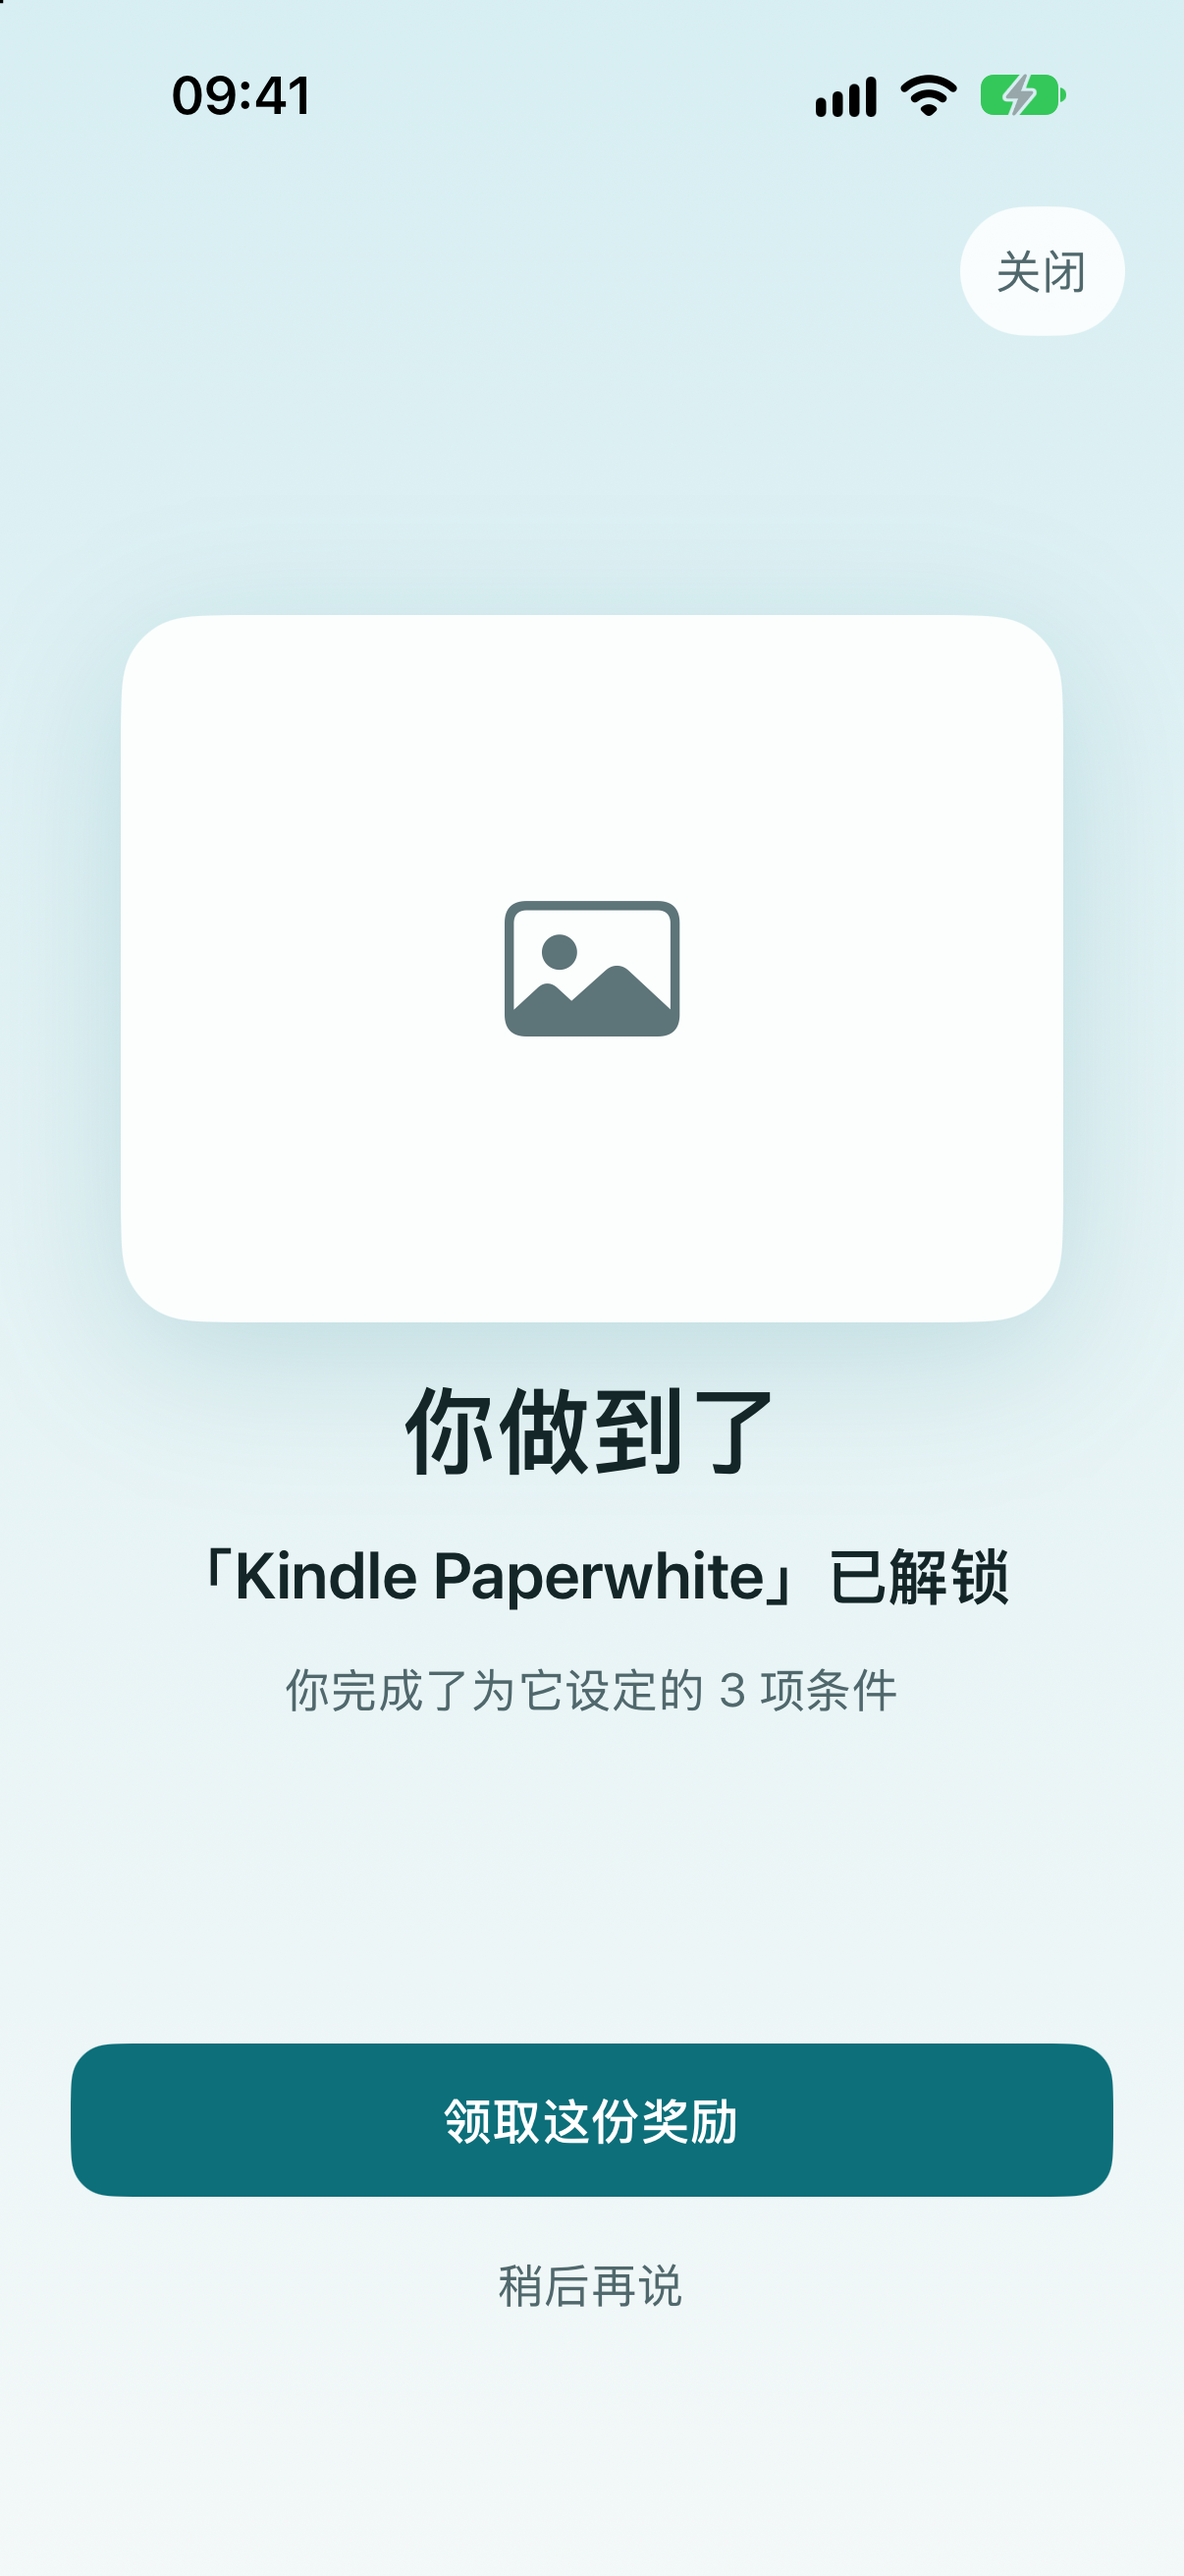
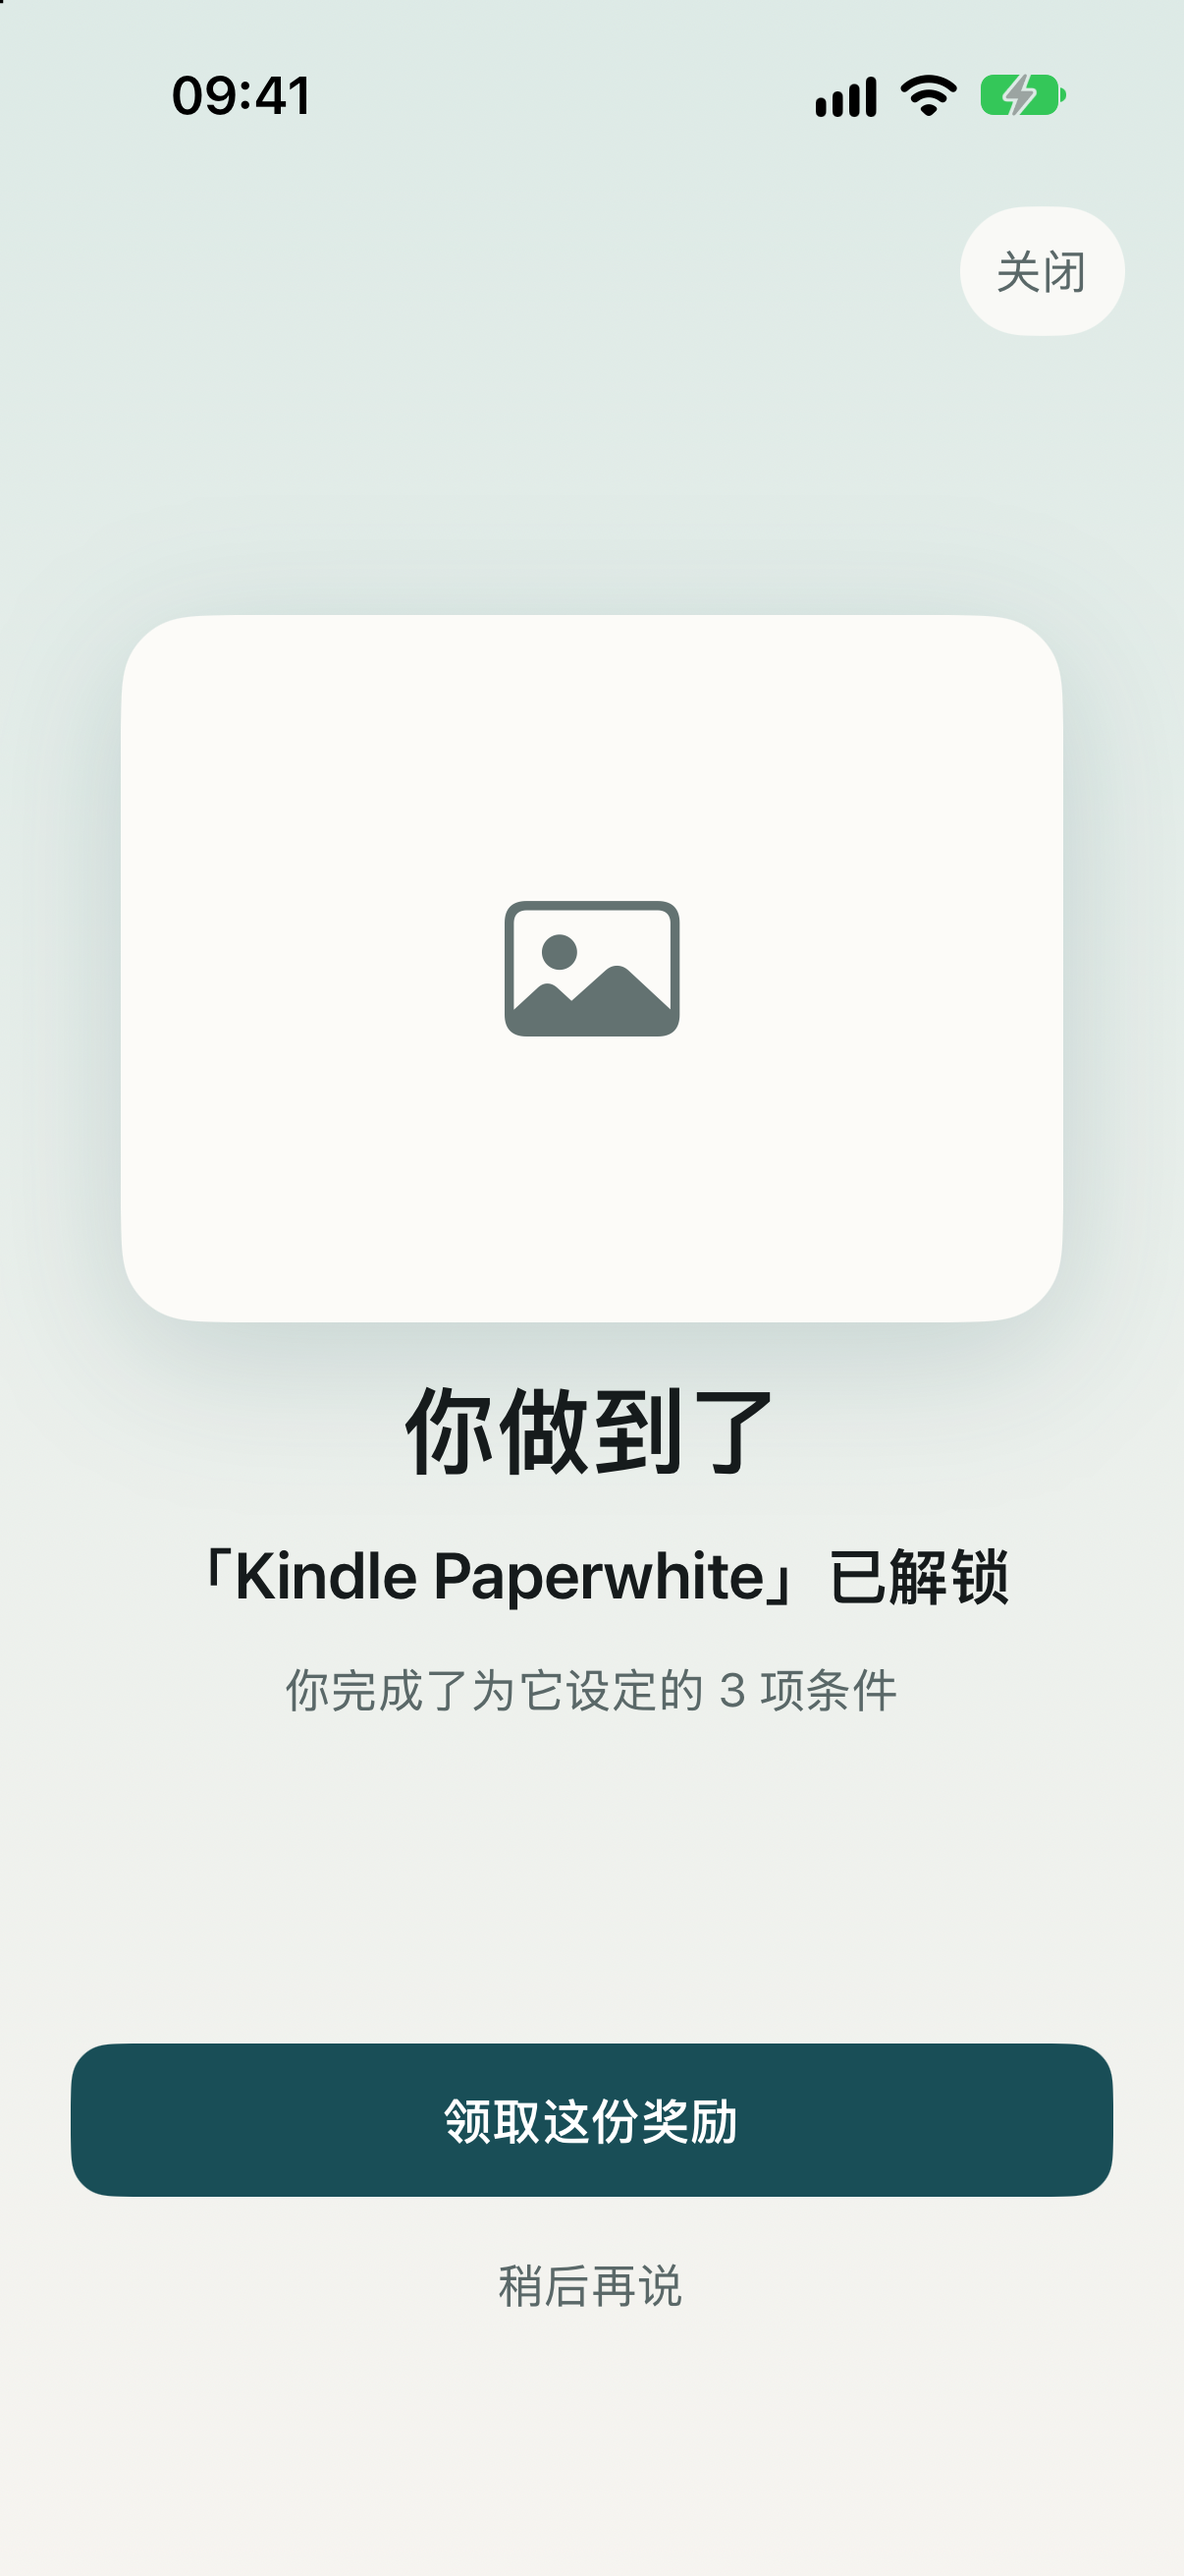
feat(ui): match petrol teal and eucalyptus palette
- move to a warm ivory canvas with deep petrol-teal action color and eucalyptus surfaces
- align the app icon and design docs with the same palette family
- refresh light/dark palette screenshots

Changed region(s): [[0.0614, 0.7723, 0.9511, 0.865]]

diff --git a/WishEarn/Presentation/Components/DesignSystem/AppTheme.swift b/WishEarn/Presentation/Components/DesignSystem/AppTheme.swift
@@ -4,33 +4,33 @@ import UIKit
 enum AppColors {
     // MARK: Canvas and surfaces
 
-    static let canvas = Color.dynamic(light: 0xF3F8F8, dark: 0x0C1517)
-    static let surface = Color.dynamic(light: 0xFCFEFE, dark: 0x152225)
-    static let surfaceSecondary = Color.dynamic(light: 0xE3EFF1, dark: 0x1F3237)
+    static let canvas = Color.dynamic(light: 0xF6F4F0, dark: 0x0D1516)
+    static let surface = Color.dynamic(light: 0xFCFBF8, dark: 0x172021)
+    static let surfaceSecondary = Color.dynamic(light: 0xE4ECE7, dark: 0x223031)
 
     // MARK: Text
 
-    static let textPrimary = Color.dynamic(light: 0x142628, dark: 0xEDF6F8)
+    static let textPrimary = Color.dynamic(light: 0x161B1C, dark: 0xF1F5F3)
     // Light values are tuned so normal-size supporting text still meets
     // 4.5:1 contrast on canvas and surface.
-    static let textSecondary = Color.dynamic(light: 0x50686C, dark: 0xB4C8CD)
-    static let textTertiary = Color.dynamic(light: 0x5D7478, dark: 0x8BA2A8)
+    static let textSecondary = Color.dynamic(light: 0x5A6868, dark: 0xB7C5C3)
+    static let textTertiary = Color.dynamic(light: 0x637271, dark: 0x8FA19F)
 
     // MARK: Action and state
 
-    // Deep lagoon teal in light mode, bright aqua in dark mode. The light
+    // Deep petrol teal in light mode, eucalyptus mint in dark mode. The light
     // accent is dark enough for text; the dark accent takes dark labels.
-    static let accent = Color.dynamic(light: 0x0C6F7A, dark: 0x6FD3D8)
-    static let accentSoft = Color.dynamic(light: 0xD7EEF2, dark: 0x13383F)
-    static let onAccent = Color.dynamic(light: 0xFFFFFF, dark: 0x0C1517)
-    static let success = Color.dynamic(light: 0x2E7D4F, dark: 0x72C995)
-    static let warning = Color.dynamic(light: 0x94601E, dark: 0xDDB26B)
-    static let danger = Color.dynamic(light: 0xB94A45, dark: 0xED8C86)
+    static let accent = Color.dynamic(light: 0x194E57, dark: 0x7ECFC3)
+    static let accentSoft = Color.dynamic(light: 0xDDEAE6, dark: 0x1A3737)
+    static let onAccent = Color.dynamic(light: 0xFFFFFF, dark: 0x0D1516)
+    static let success = Color.dynamic(light: 0x2E7A55, dark: 0x78C69A)
+    static let warning = Color.dynamic(light: 0x8E641F, dark: 0xD8B36B)
+    static let danger = Color.dynamic(light: 0xB14B46, dark: 0xE88B85)
 
     // MARK: Structure
 
-    static let separator = Color.dynamic(light: 0xD8E6E9, dark: 0x293C41)
-    static let progressTrack = Color.dynamic(light: 0xE1EEF1, dark: 0x293C41)
+    static let separator = Color.dynamic(light: 0xE3E5E0, dark: 0x2A3838)
+    static let progressTrack = Color.dynamic(light: 0xE5ECE8, dark: 0x2A3838)
 
     // MARK: Compatibility aliases
     //

diff --git a/docs/design/DESIGN_SYSTEM.md b/docs/design/DESIGN_SYSTEM.md
@@ -12,19 +12,19 @@ Use semantic names. Values below are initial targets; verify contrast in impleme
 
 | Token | Light | Dark | Use |
 |---|---|---|---|
-| canvas | #F3F8F8 | #0C1517 | App background |
-| surface | #FCFEFE | #152225 | Main cards and sheets |
-| surfaceSecondary | #E3EFF1 | #1F3237 | Quiet grouped surfaces |
-| textPrimary | #142628 | #EDF6F8 | Primary text |
-| textSecondary | #50686C | #B4C8CD | Supporting text |
-| textTertiary | #5D7478 | #8BA2A8 | Metadata only |
-| accent | #0C6F7A | #6FD3D8 | Primary action / active progress |
-| accentSoft | #D7EEF2 | #13383F | Accent container |
-| success | #2E7D4F | #72C995 | Completed state |
-| warning | #94601E | #DDB26B | Caution only |
-| danger | #B94A45 | #ED8C86 | Destructive / error |
-| separator | #D8E6E9 | #293C41 | Hairlines |
-| progressTrack | #E1EEF1 | #293C41 | Progress background |
+| canvas | #F6F4F0 | #0D1516 | App background |
+| surface | #FCFBF8 | #172021 | Main cards and sheets |
+| surfaceSecondary | #E4ECE7 | #223031 | Quiet grouped surfaces |
+| textPrimary | #161B1C | #F1F5F3 | Primary text |
+| textSecondary | #5A6868 | #B7C5C3 | Supporting text |
+| textTertiary | #637271 | #8FA19F | Metadata only |
+| accent | #194E57 | #7ECFC3 | Primary action / active progress |
+| accentSoft | #DDEAE6 | #1A3737 | Accent container |
+| success | #2E7A55 | #78C69A | Completed state |
+| warning | #8E641F | #D8B36B | Caution only |
+| danger | #B14B46 | #E88B85 | Destructive / error |
+| separator | #E3E5E0 | #2A3838 | Hairlines |
+| progressTrack | #E5ECE8 | #2A3838 | Progress background |
 
 Rules:
 - Accent is used for one primary action and active progress, not every icon.
@@ -88,7 +88,7 @@ Prefer subtle border separation over drop shadows. If shadow is needed: low opac
 Wish imagery is the strongest visual differentiator.
 - Detail hero: wide crop, 16:10 target, rounded 26 pt corners; preserve subject via center crop and allow user-selected image focal behavior if available.
 - Home card: 104 × 116 pt editorial thumbnail on standard width; do not force 64 pt generic icon tiles.
-- No-image state: cool neutral surface with a restrained line illustration / symbol and a subtle “Add a photo” affordance only in edit context.
+- No-image state: soft eucalyptus-neutral surface with a restrained line illustration / symbol and a subtle “Add a photo” affordance only in edit context.
 - Do not show broken-image glyphs.
 - Respect stored image data and existing image-loading path; do not add remote image dependencies.
 

diff --git a/docs/design/screenshots/palette-refresh/README.md b/docs/design/screenshots/palette-refresh/README.md
@@ -1,11 +1,11 @@
-# Palette Refresh — Lagoon Teal
+# Palette Refresh — Petrol & Eucalyptus
 
-Replaces the previous terracotta/warm-paper palette with a cool-mist canvas and lagoon-teal accent. The editorial serif composition is unchanged.
+Replaces the previous terracotta/warm-paper palette with a soft ivory canvas, deep petrol-teal accent, and eucalyptus-mint containers. The editorial serif composition is unchanged.
 
-- Light: cool mist canvas `#F3F8F8`, near-white surface `#FCFEFE`, deep lagoon accent `#0C6F7A`, soft aqua container `#D7EEF2`.
-- Dark: deep green-black canvas `#0C1517`, dark surface `#152225`, bright aqua accent `#6FD3D8`.
+- Light: soft ivory canvas `#F6F4F0`, warm-white surface `#FCFBF8`, deep petrol accent `#194E57`, eucalyptus container `#DDEAE6`.
+- Dark: deep blue-green canvas `#0D1516`, dark surface `#172021`, eucalyptus-mint accent `#7ECFC3`.
 - Semantic success, warning, and danger remain distinct from the accent and retain 4.5:1 contrast targets.
-- App icon updated to the same teal gradient with the existing white heart + sparkles mark.
+- App icon updated to the same petrol → eucalyptus gradient with the existing white heart + sparkles mark.
 
 Captured on iPhone 18 Pro Simulator (iOS 27.2) with in-memory Debug-only data:
 

diff --git a/PROJECT_STATUS.md b/PROJECT_STATUS.md
@@ -88,13 +88,13 @@
 - 发布材料：`docs/APP_STORE.md`、`docs/RELEASE_CHECKLIST.md`。
 - Release Archive 与 Development IPA 构建成功。
 - Phase 2 设计系统、心愿首页、心愿详情、Today 行动页、Editors、Unlock / Achievements / Settings 改版。
-- 配色刷新：lagoon teal 冷色体系与同色系 App Icon。
+- 配色刷新：petrol teal + eucalyptus 冷色体系与同色系 App Icon。
 - 测试体系：272 项，业务层主要文件覆盖率 88%–100%。
 
 ## Last Verification
 
 - Build: PASS — Debug / Release
-- Unit Tests: PASS — 272 项，iPhone 18 Pro / iOS 27.2，2026-11-09 23:58
+- Unit Tests: PASS — 272 项，iPhone 18 Pro / iOS 27.2，2026-11-10 00:13
 - Palette refresh: PASS — Light / Dark / Detail / Today / Achievements / Settings / Unlock / Editor 截图
 - Integration Tests: PASS
 - Archive: PASS — `build/WishEarn.xcarchive`（0.15.0 / 1）

diff --git a/docs/design/UI_UX_DIRECTION.md b/docs/design/UI_UX_DIRECTION.md
@@ -91,7 +91,7 @@ Avoid:
 - Cartoon mascots, XP, coins, rankings, or punishment language.
 - Making a missing wish image look like a broken image placeholder.
 
-Use a restrained cool-mist palette with a single lagoon-teal accent. The editorial composition stays; the palette should feel fresh and optimistic rather than warm/terracotta. Color must communicate role, not decorate every element.
+Use a soft ivory canvas with a single deep petrol-teal accent and eucalyptus-mint containers. The editorial composition stays; the palette should feel fresh and optimistic rather than warm/terracotta. Color must communicate role, not decorate every element.
 
 ## 6. Content and microcopy
 

diff --git a/CHANGELOG.md b/CHANGELOG.md
@@ -21,7 +21,7 @@
 - Settings 补充 JSON 导出格式与图片限制说明，并补齐 52 pt 行高与披露指示。
 - 解锁幂等与领取失败测试补充；测试扩展至 272 项。
 - 首页 Featured WishCard 主图从 16:10 调整为 2:1，并修复竖图按源图比例撑高卡片的问题；心愿详情 Hero 保持 16:10。
-- 全量配色从暖陶土改为 lagoon teal 冷色体系，同步 Light / Dark tokens、对比度测试、设计文档与 App Icon。
+- 全量配色从暖陶土改为 petrol teal + eucalyptus 冷色体系，同步 Light / Dark tokens、对比度测试、设计文档与 App Icon。
 
 ### Planned
 

diff --git a/docs/design/HIGH_FIDELITY_LAYOUTS.md b/docs/design/HIGH_FIDELITY_LAYOUTS.md
@@ -7,7 +7,7 @@
 ## 1. Design composition rules
 
 ### Visual rhythm
-- Page canvas: cool mist neutral background.
+- Page canvas: soft ivory background with a subtle eucalyptus tint.
 - Main content horizontal inset: 20 pt.
 - Section spacing: 28–32 pt.
 - Card internal inset: 16–20 pt.
